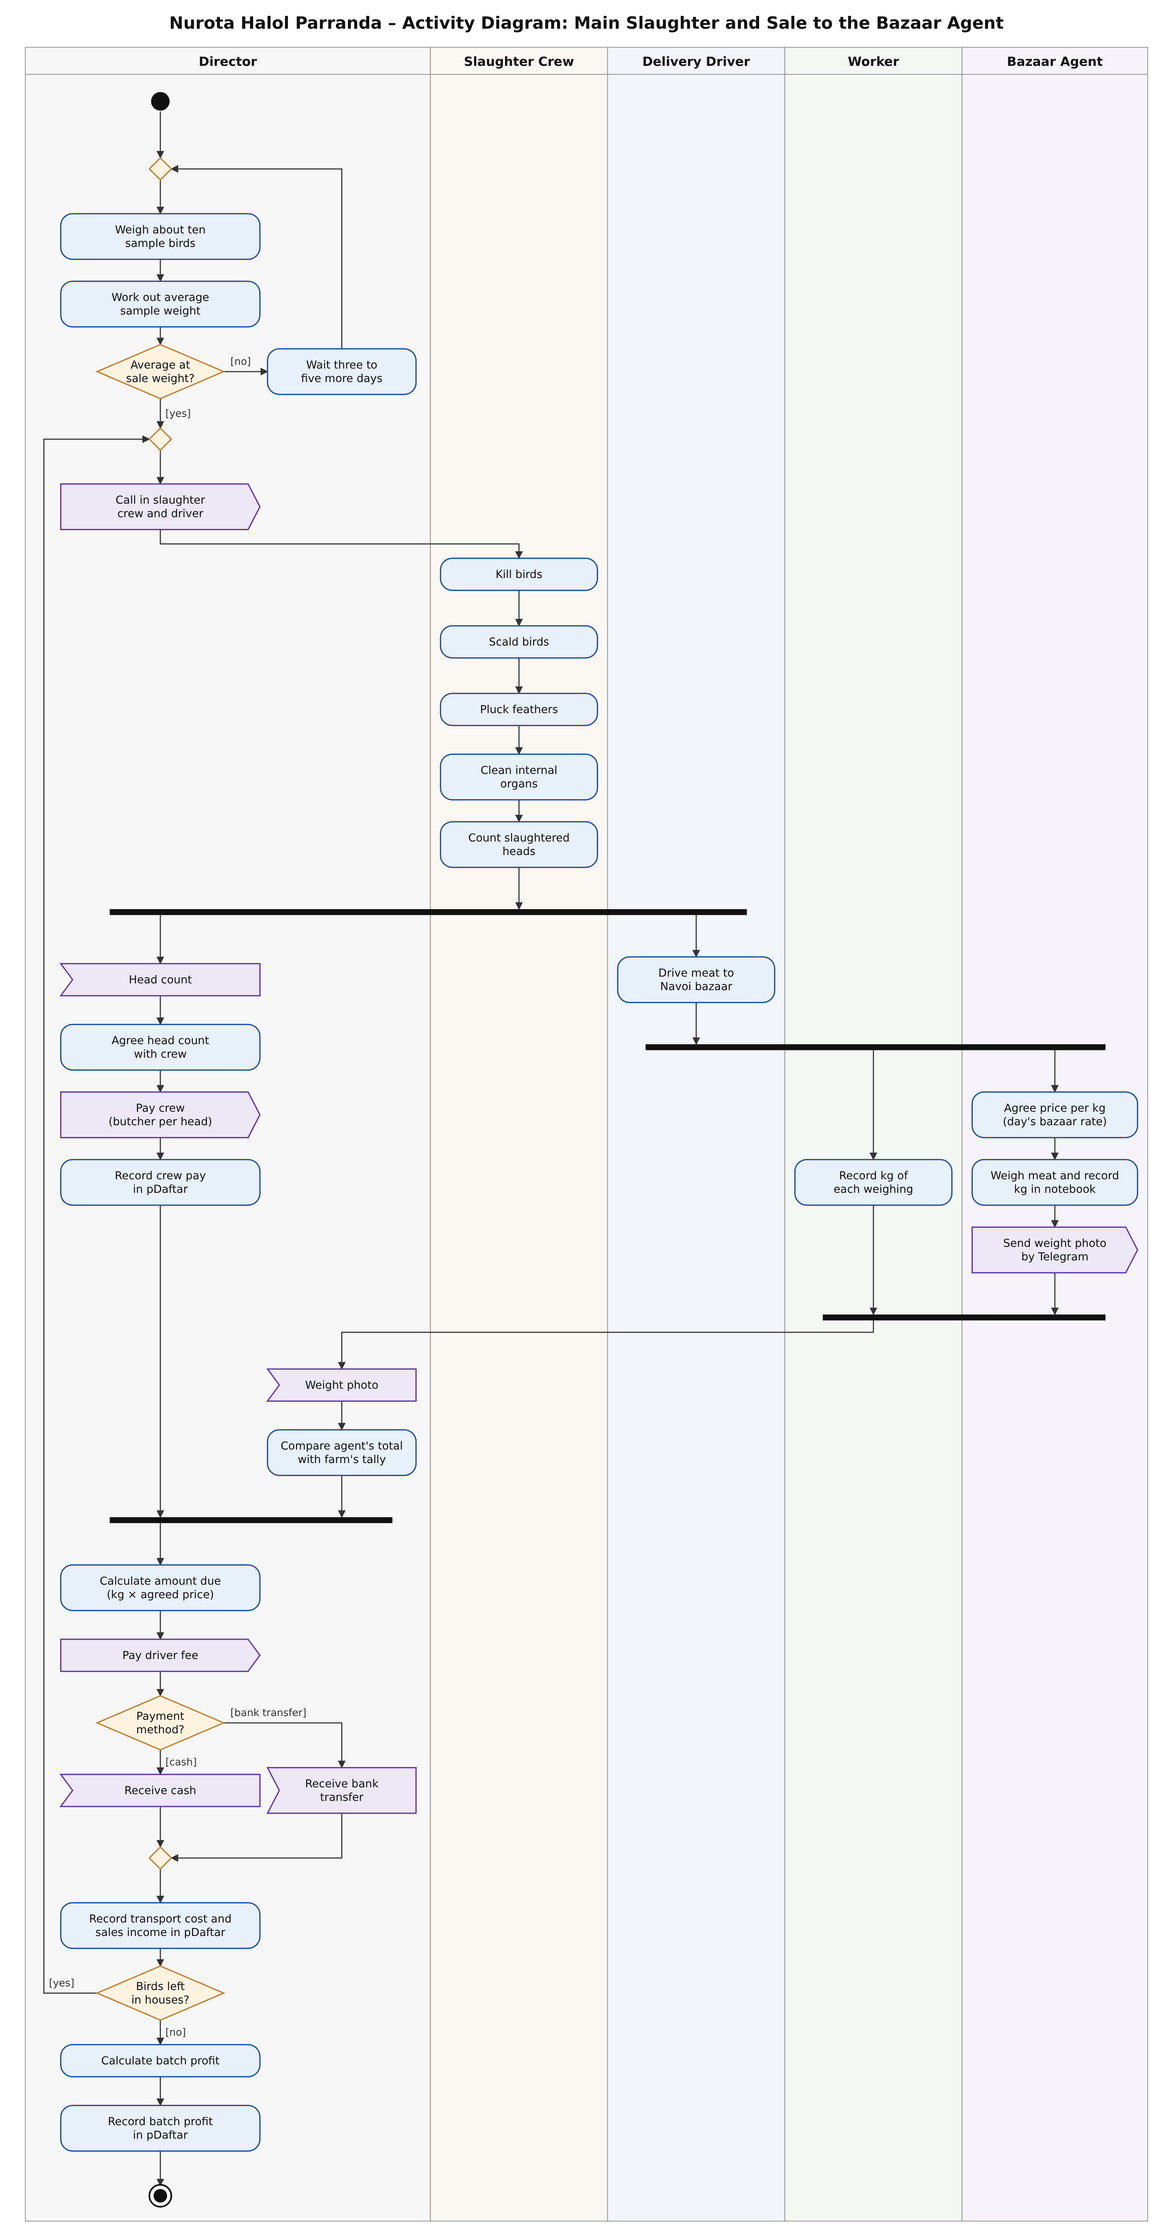
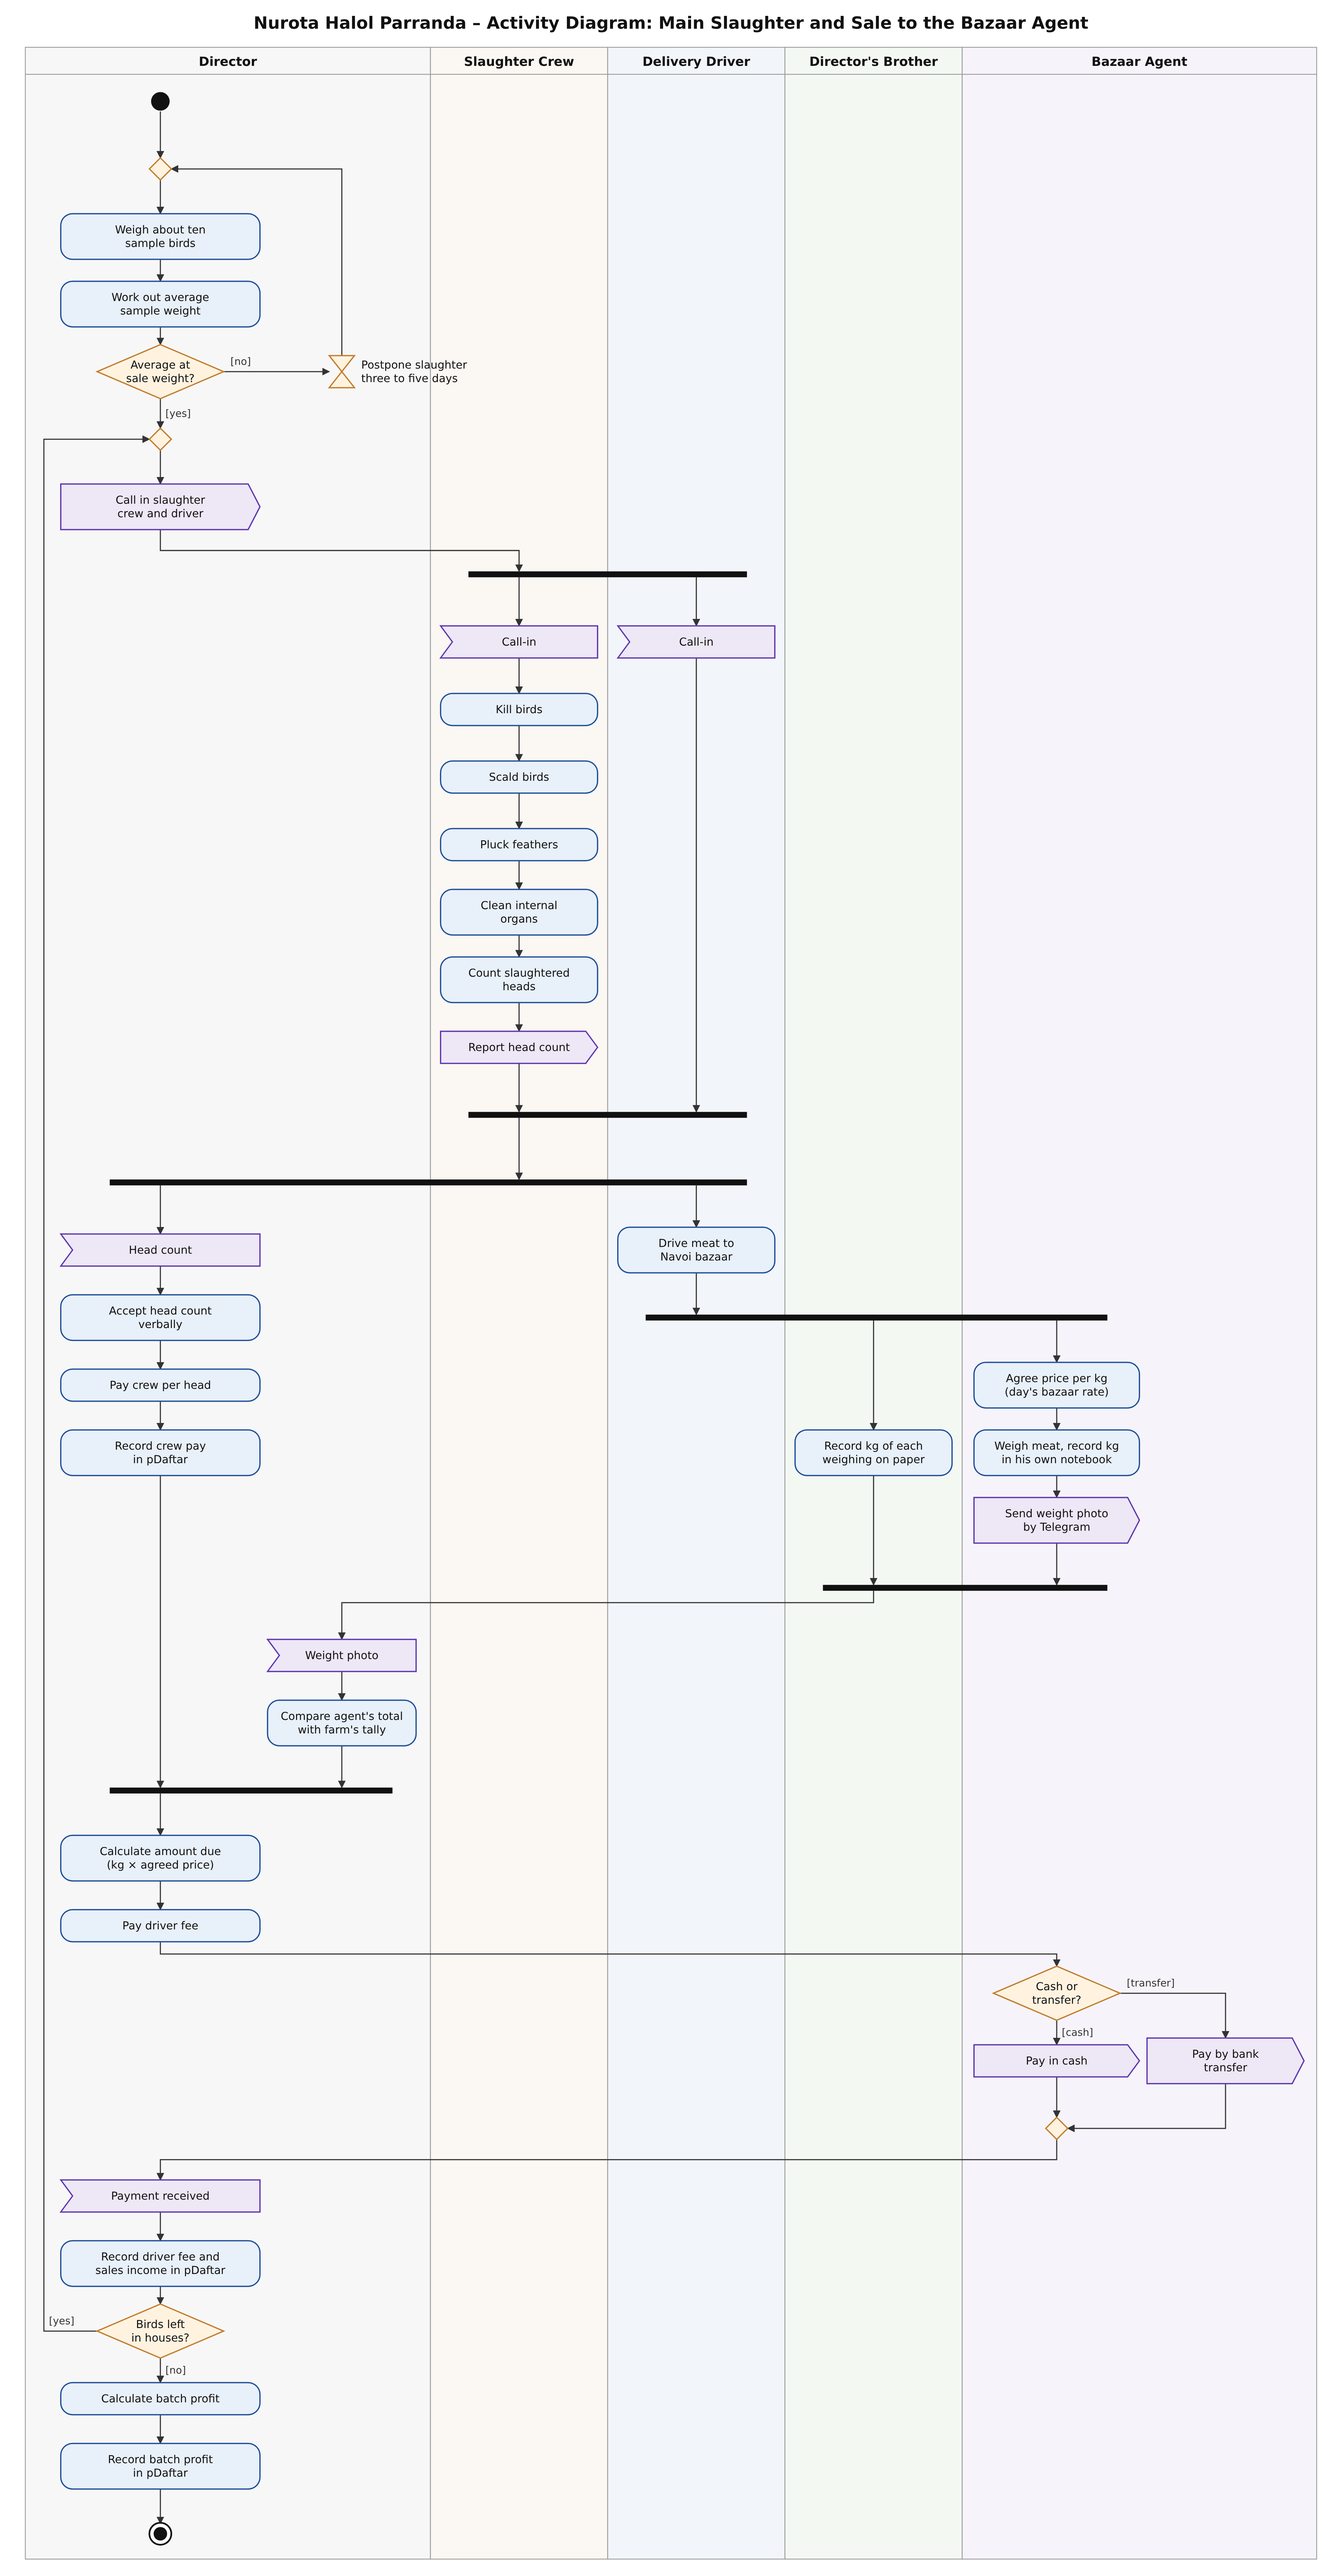
Final DFD and activity diagram with confirmed farm facts

diff --git a/4-data-flow-diagram.md b/4-data-flow-diagram.md
@@ -1,8 +1,8 @@
 # Data Flow Diagram
 
-The diagrams show how Nurota Halol Parranda handles its data today, without any computer system. The boundary is the farm itself. The Director and the Workers carry out every process inside it, so neither appears as an external entity. Outside are the two suppliers, the Slaughter Crew and the Delivery Driver who are hired for each slaughter, and the three buyers: the Bazaar Agent, the Nurata Seller and the Shop Customer. The Delivery Driver is not an actor in the use case diagram, but he is drawn here because the farm sends him a call-in date and a fee.
+The diagrams show how Nurota Halol Parranda handles its data today, without any computer system. The boundary is the farm itself. The Director, the Workers and the Director's brother, who records weights at the bazaar, carry out every process inside it, so none of them appears as an external entity. Outside are the two suppliers, the Slaughter Crew and the Delivery Driver who are hired for each slaughter, and four kinds of buyer: the Bazaar Agent, the Nurata Seller, the Shop Customer and the Client who places a small order. The Delivery Driver is not an actor in the use case diagram, but he is drawn here because the farm sends him a call-in date and a fee.
 
-The farm's records end up in five places: the Director's paper notebook, the camera footage, the pDaftar app on his phone, the weight photos the Bazaar Agent sends on Telegram, and the tally a Worker keeps while the meat is weighed at the bazaar. None of them is linked to another.
+The farm's records end up in five places: the Director's paper notebook, the camera footage, the pDaftar app on his phone, the weight photos the Bazaar Agent sends on Telegram, and the paper tally the Director's brother keeps at the bazaar. None of them is linked to another. Live birds, feed and meat are drawn as flows where they move between processes, as in the module's own model answers, because each movement is also the moment a record is or is not made.
 
 ## Level 0
 
@@ -10,32 +10,50 @@ The farm's records end up in five places: the Director's paper notebook, the cam
 
 *Figure 4.1: DFD Level 0, the farm's current system*
 
-Every money figure goes into pDaftar (D3). Processes 1, 2 and 4 add costs, process 5 adds sales income, and process 6 reads both back to get the profit of a batch. Chick deaths and feed use go only into the notebook (D1), and no process reads them back, so they never reach the profit figure and the farm cannot see the cost per bird or how much feed a batch really used. This matches the business case, where decisions rest on the Director's experience rather than on these records. The head count that sets the crew's pay comes in from the crew and is turned straight into a payment without being written down.
+Every money figure goes into pDaftar (D3). Processes 1, 2 and 4 add costs, process 5 adds sales income, and process 6 reads both back, works out the profit of a batch and stores it there too. The notebook (D1) holds only chick deaths and the feed that was ordered and delivered. Daily feed use is not tracked at all, and no process reads the notebook back, so the farm cannot see how much feed a batch really ate or what each bird cost to raise. The head count that sets the crew's pay comes in from the crew and is turned straight into a payment without being written down.
 
-Processes 1, 2 and 6 are not broken down further. Each order is a single exchange with one supplier, paid by bank transfer under the standing contract, and process 6 is one calculation made from figures already in pDaftar.
+Process 6 is not broken down further, because it is one calculation made from figures already in pDaftar.
 
-The early cull of sick chicks around day 25, the slaughter of about 4,000 birds around day 35–40 and the small client orders of 50–100 birds are not drawn. The farm has not yet confirmed what each of these records or who buys those birds, so only the main slaughter is modelled.
+## Level 1: Process 1 Order Day-Old Chicks
+
+![DFD Level 1 for process 1](diagrams/dfd-level1-process1.png)
+
+*Figure 4.2: DFD Level 1, Process 1 Order Day-Old Chicks*
+
+Ordering chicks splits into placing the order (1.1), receiving the chicks (1.2) and paying the supplier (1.3). The price is fixed by the standing contract, so the only figure from this process that reaches a store is the cost of the batch in pDaftar.
+
+## Level 1: Process 2 Order Feed and Vitamins
+
+![DFD Level 1 for process 2](diagrams/dfd-level1-process2.png)
+
+*Figure 4.3: DFD Level 1, Process 2 Order Feed and Vitamins*
+
+Feed follows the same pattern under the same contract: an order placed at the supplier's current prices (2.1), the delivery (2.2) and a bank transfer (2.3). Unlike chicks, each delivery is written in the notebook (2.2), and the cost goes into pDaftar (2.3). The two halves of the same delivery therefore end up in two separate stores, and nothing joins the quantity to the price.
 
 ## Level 1: Process 3 Monitor Flock
 
 ![DFD Level 1 for process 3](diagrams/dfd-level1-process3.png)
 
-*Figure 4.2: DFD Level 1, Process 3 Monitor Flock*
+*Figure 4.4: DFD Level 1, Process 3 Monitor Flock*
 
-Workers check each house every 15–30 minutes (3.1). When one of them finds a dead chick he tells the Director, who writes it in the notebook (3.3), and feed use goes into the same notebook (3.4). The death count passes through two people and a spoken message before it is written down, which is why the business case calls it approximate. The cameras record the houses (3.2), but the footage stays in the monitoring app and feeds nothing else, so it adds no record the farm can use later.
+Workers check each house every 15–30 minutes (3.1). When one of them finds a dead chick he tells the Director, who writes it in the notebook (3.3). The count passes through two people and a spoken message before it is written down, which is why the business case calls it approximate. The Director also watches the houses remotely through the camera app (3.2), but nothing he sees there is written down or passed to another process. Sick chicks and birds ready for slaughter leave this process for process 4.
 
-## Level 1: Process 4 Run Main Slaughter
+## Level 1: Process 4 Slaughter Birds
 
 ![DFD Level 1 for process 4](diagrams/dfd-level1-process4.png)
 
-*Figure 4.3: DFD Level 1, Process 4 Run Main Slaughter*
+*Figure 4.5: DFD Level 1, Process 4 Slaughter Birds*
 
-Process 4 brings together four use cases from section 2: Decide Main Slaughter Date, Run Main Slaughter, Pay Slaughter Crew per Head and Arrange Delivery. The Director weighs about ten birds (4.1) and uses their average to decide whether to call in the crew and the driver now or wait three to five more days (4.2). After the session the crew reports how many birds it slaughtered, the Director accepts that count verbally (4.3) and pays the crew from it, with the butcher paid per head (4.4). Only the payment reaches pDaftar. The count behind it is never recorded, so a wrong count cannot be checked later. The driver's fee for taking the meat to the bazaar (4.5) goes into pDaftar as well.
+Process 4 covers the use cases Cull Sick Chicks (4.1), Thin Out Flock (4.2), Slaughter Client Order (4.3), Weigh Sample Birds (4.4), Decide Main Slaughter Date (4.5, which also covers Postpone Slaughter), Pay Slaughter Crew per Head (4.6 Agree Head Count and 4.7) and Arrange Delivery (4.8). Run Main Slaughter has no process of its own because the hired Slaughter Crew carries it out, so it appears as the external entity. The Level 0 flow "birds for slaughter" splits here into the birds for thinning, for client orders and for the main slaughter.
+
+Birds leave the houses in four ways. Around day 25 sick or stunted chicks are culled, killed and sold, and the cull itself leaves no record. Around day 35–40 the hired crew slaughters about 4,000 birds to thin the flock, and small client orders of 50–100 birds are slaughtered in-house whenever a client asks. For the main slaughter the Director weighs about ten birds and decides from their average whether to call in the crew and the driver now or wait three to five more days. Those sample weights are not written down anywhere.
+
+Thinning and main-slaughter sessions end the same way. The crew reports how many birds it slaughtered, the Director accepts the count verbally (4.6) and pays the whole crew per head from it (4.7). Only the payment reaches pDaftar; the count behind it is never recorded, so a wrong count cannot be checked later. A driver is called in for every session, and his fee for taking the meat to the bazaar (4.8) goes into pDaftar as well.
 
 ## Level 1: Process 5 Sell Meat
 
 ![DFD Level 1 for process 5](diagrams/dfd-level1-process5.png)
 
-*Figure 4.4: DFD Level 1, Process 5 Sell Meat*
+*Figure 4.6: DFD Level 1, Process 5 Sell Meat*
 
-The meat goes to three buyers (5.2), and the farm treats them very differently. The Bazaar Agent, an independent middleman who resells to seven to nine other sellers, takes the largest share. His price per kg is agreed verbally at that day's bazaar rate (5.1). While he weighs the meat, a Worker writes down every reading (5.3), and the agent later sends his own totals as a photo on Telegram (5.4). The Director compares the two totals (5.5) and only then works out what the agent owes, the confirmed kilograms times the agreed price (5.6). The Nurata Seller and the Shop Customer pay the farm directly, and that income goes into pDaftar with the rest (5.7). The farm has not yet confirmed how it measures the meat these two take.
+The meat goes to four kinds of buyer (5.2), and only one of them is checked. The Bazaar Agent, an independent middleman who resells to seven to nine other sellers, takes the largest share, and his price per kg is agreed verbally at that day's bazaar rate (5.1). While he weighs the meat, the Director's brother reads the same scale at the same moment and writes every reading on paper (5.3), so the two records always agree. The agent's own totals arrive later as a photo on Telegram (5.4), the Director compares them with the brother's tally (5.5) and then settles the sale, the confirmed kilograms times the agreed price, which goes into pDaftar (5.6). The Nurata Seller and the Shop Customer have their meat weighed when they buy and pay in cash or by transfer, and Clients pay for their orders; their payments are recorded as direct sales in pDaftar (5.7). The only independent check on the farm's largest sales channel therefore depends on a family member standing next to the agent's scale.

diff --git a/5-activity-diagram.md b/5-activity-diagram.md
@@ -1,13 +1,13 @@
 # Activity Diagram
 
-The diagram follows the main slaughter of one batch and the sale of its meat to the Bazaar Agent. Five parties take part, there are three decisions, two of which send the flow back to an earlier step, and the work splits into parallel branches twice. Sales to the Nurata Seller and the Shop Customer are left out because the farm has not yet described those steps. The Delivery Driver has his own lane even though he is not an actor in section 2, because the meat cannot reach the bazaar without him.
+The diagram follows the main slaughter of one batch and the sale of its meat to the Bazaar Agent. It shows that every figure the farm uses, the head count, the kilograms and the price, has to reach the Director before anything is paid or recorded. The day 35–40 thinning uses the same crew steps and is not repeated here. Sales to the Nurata Seller, the Shop Customer and Clients are left out because they are simpler: the meat is weighed when they buy and they pay in cash or by transfer. The Delivery Driver has his own lane even though he is not an actor in section 2, because the meat cannot reach the bazaar without him.
 
 ![Activity diagram: main slaughter and sale to the Bazaar Agent](diagrams/activity-slaughter-and-sale.png)
 
 *Figure 5.1: Activity diagram, main slaughter and sale to the Bazaar Agent*
 
-The decision to slaughter rests on about ten birds weighed by the Director. Their weights are not written down anywhere, so a misjudged sample cannot be traced afterwards, and it means either paying for extra days of feed or selling birds below weight.
+The decision to slaughter rests on about ten birds weighed by the Director, and their weights are never written down. A misjudged sample therefore cannot be traced afterwards, and it means either paying for extra days of feed or selling birds below weight. A low average simply postpones the slaughter by three to five days.
 
-Once the crew has finished, two things happen at the same time, and both rely on trust rather than records. The Director pays the crew, the butcher per head, on a count he only hears, while the meat leaves for Navoi bazaar. There the price per kg is agreed verbally at the day's bazaar rate, and the agent and a Worker weigh the meat in parallel, which is the second fork. The Worker's tally is the only point in this process where the farm checks a figure given to it by someone outside.
+Once the crew has finished and reported its head count, two things happen at the same time, and both rely on trust rather than records. The Director accepts the count verbally and pays the whole crew per head on it, while the driver takes the meat to Navoi bazaar. There the price per kg is agreed at the day's bazaar rate, and as the agent weighs the meat and writes the kilograms in his own notebook, the Director's brother reads the same scale and writes each weighing on paper, which is the diagram's third fork. This is the only point in the process where the farm checks a figure given to it by someone outside, and it works only because a family member is standing at the scale.
 
-The Director cannot work out what he is owed until the agent's photo arrives, so the money for each session waits on the agent. Whether the agent pays in cash or by bank transfer, the sale is recorded in pDaftar together with the transport cost. One session handles 1,000–1,200 birds, so the cycle repeats until no birds are left in the houses, and the profit of the batch is only known after the last session, too late to change anything during the slaughter.
+The Director cannot work out what he is owed until the agent's photo arrives, so the money for each session waits on the agent. He compares the photo with his brother's tally, calculates the amount due and pays the driver. The agent then chooses whether to pay in cash or by bank transfer, and either way the sale is recorded in pDaftar together with the driver's fee. One session handles 1,000–1,200 birds, so the cycle repeats until no birds are left in the houses, and the profit of the batch is only known after the last session, too late to change anything during the slaughter.
